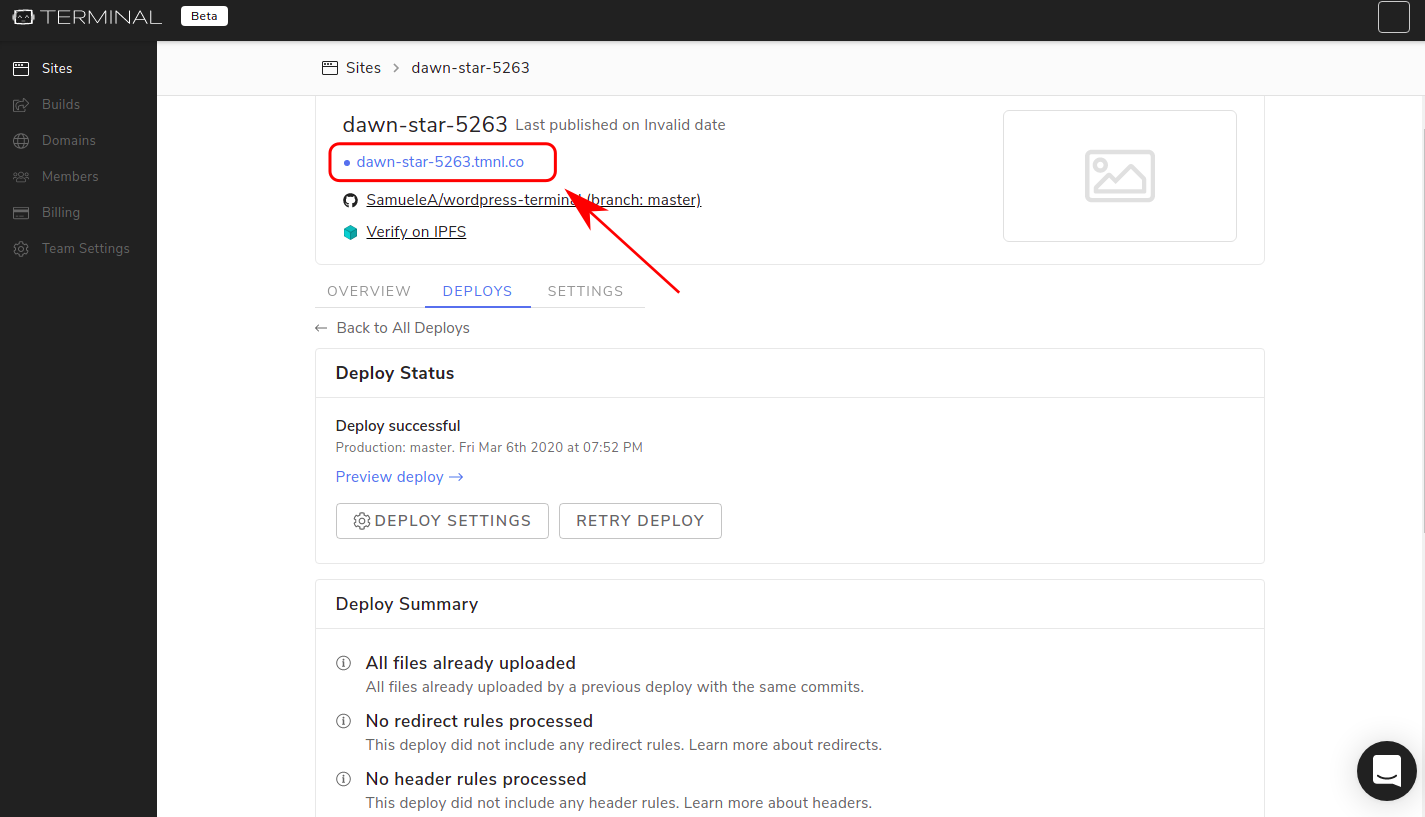
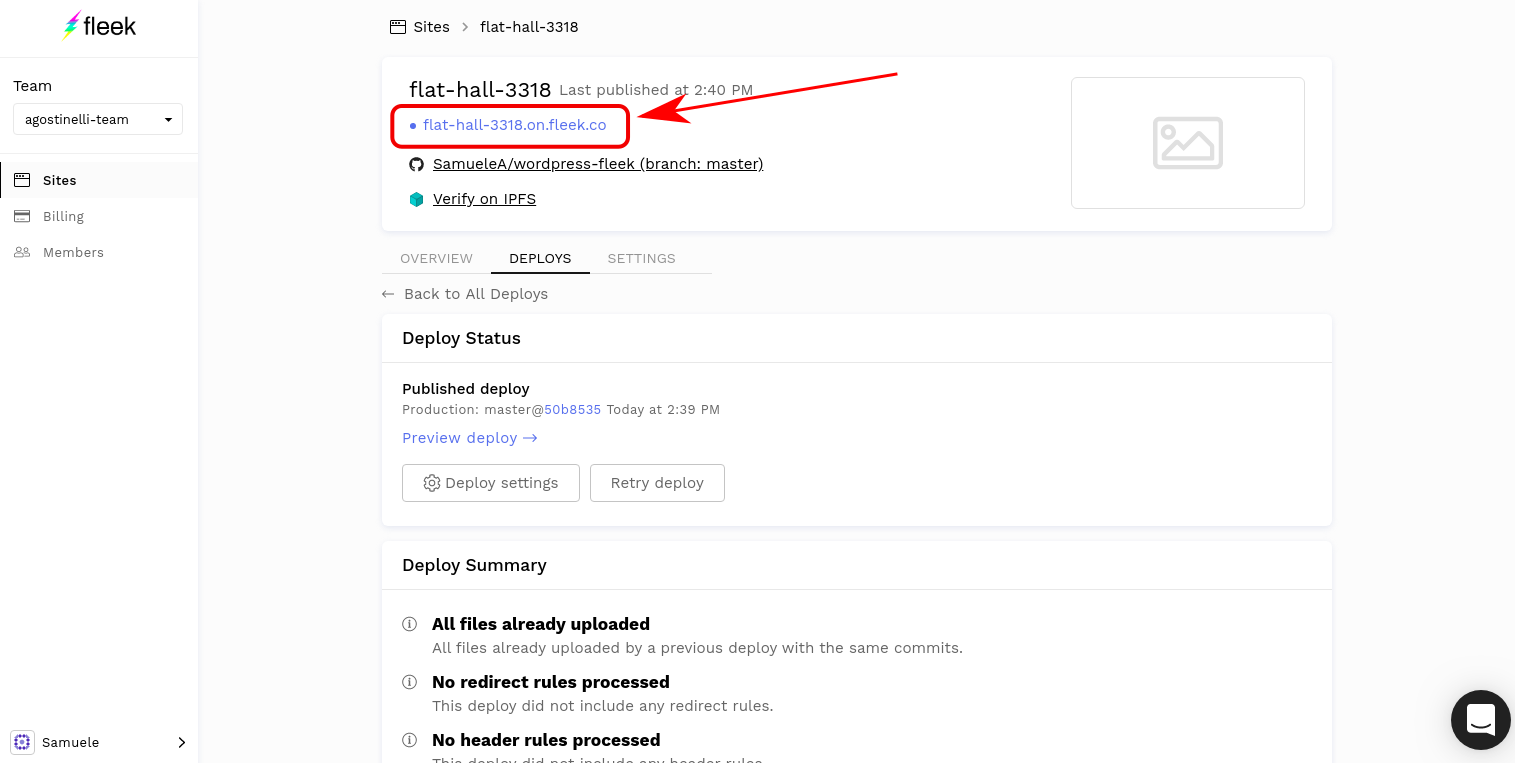
wordpress update

diff --git a/content/posts/2020-03-17-how-to-deploy-a-wordpress-website-onto-ipfs.md b/content/posts/2020-03-17-how-to-deploy-a-wordpress-website-onto-ipfs.md
@@ -1,7 +1,7 @@
 ---
 template: post
 title: How to Deploy a Wordpress Website onto IPFS
-slug: wordpress+terminal
+slug: wordpress+fleek
 draft: false
 date: 2020-03-17T01:24:42.196Z
 description: >-
@@ -38,7 +38,7 @@ Finally, the downloaded file can be unzipped. The folder contains the totality o
 
 ## Pushing the Site to IPFS through Fleek
 
-Fleek will take care of deploying the site to IPFS. In order to allow Fleek to get the files, we must first push the exported site to [github](https://github.com/). To do so, simply create a new repository and follow the instructions. Once you are done, the result should look similar to the following repo: <https://github.com/SamueleA/wordpress-terminal>, with the index.html file in the root folder.Then, we log into Fleek and add a new site.
+Fleek will take care of deploying the site to IPFS. In order to allow Fleek to get the files, we must first push the exported site to [github](https://github.com/). To do so, simply create a new repository and follow the instructions. Once you are done, the result should look similar to the following repo: <https://github.com/SamueleA/wordpress-fleek>, with the index.html file in the root folder.Then, we log into Fleek and add a new site.
 
 ![](/media/wordpress4.png)
 
@@ -50,7 +50,7 @@ The next step is to input information such as build command and public folder. H
 
 ![](/media/wordpress6.png)
 
-And that is all! Once the site is done deploying, which should take around a minute, the site will be available through the .tmnl.co address in blue. In our case, the blog is now accessible through IPFS at this address: [https://dawn-star-5263.tmnl.co](https://dawn-star-5263.tmnl.co/)
+And that is all! Once the site is done deploying, which should take around a minute, the site will be available through the .tmnl.co address in blue. In our case, the blog is now accessible through IPFS at this address: [https://flat-hall-3318.on.fleek.co/](https://flat-hall-3318.on.fleek.co/)
 
 ![](/media/wordpress7.png)
 
